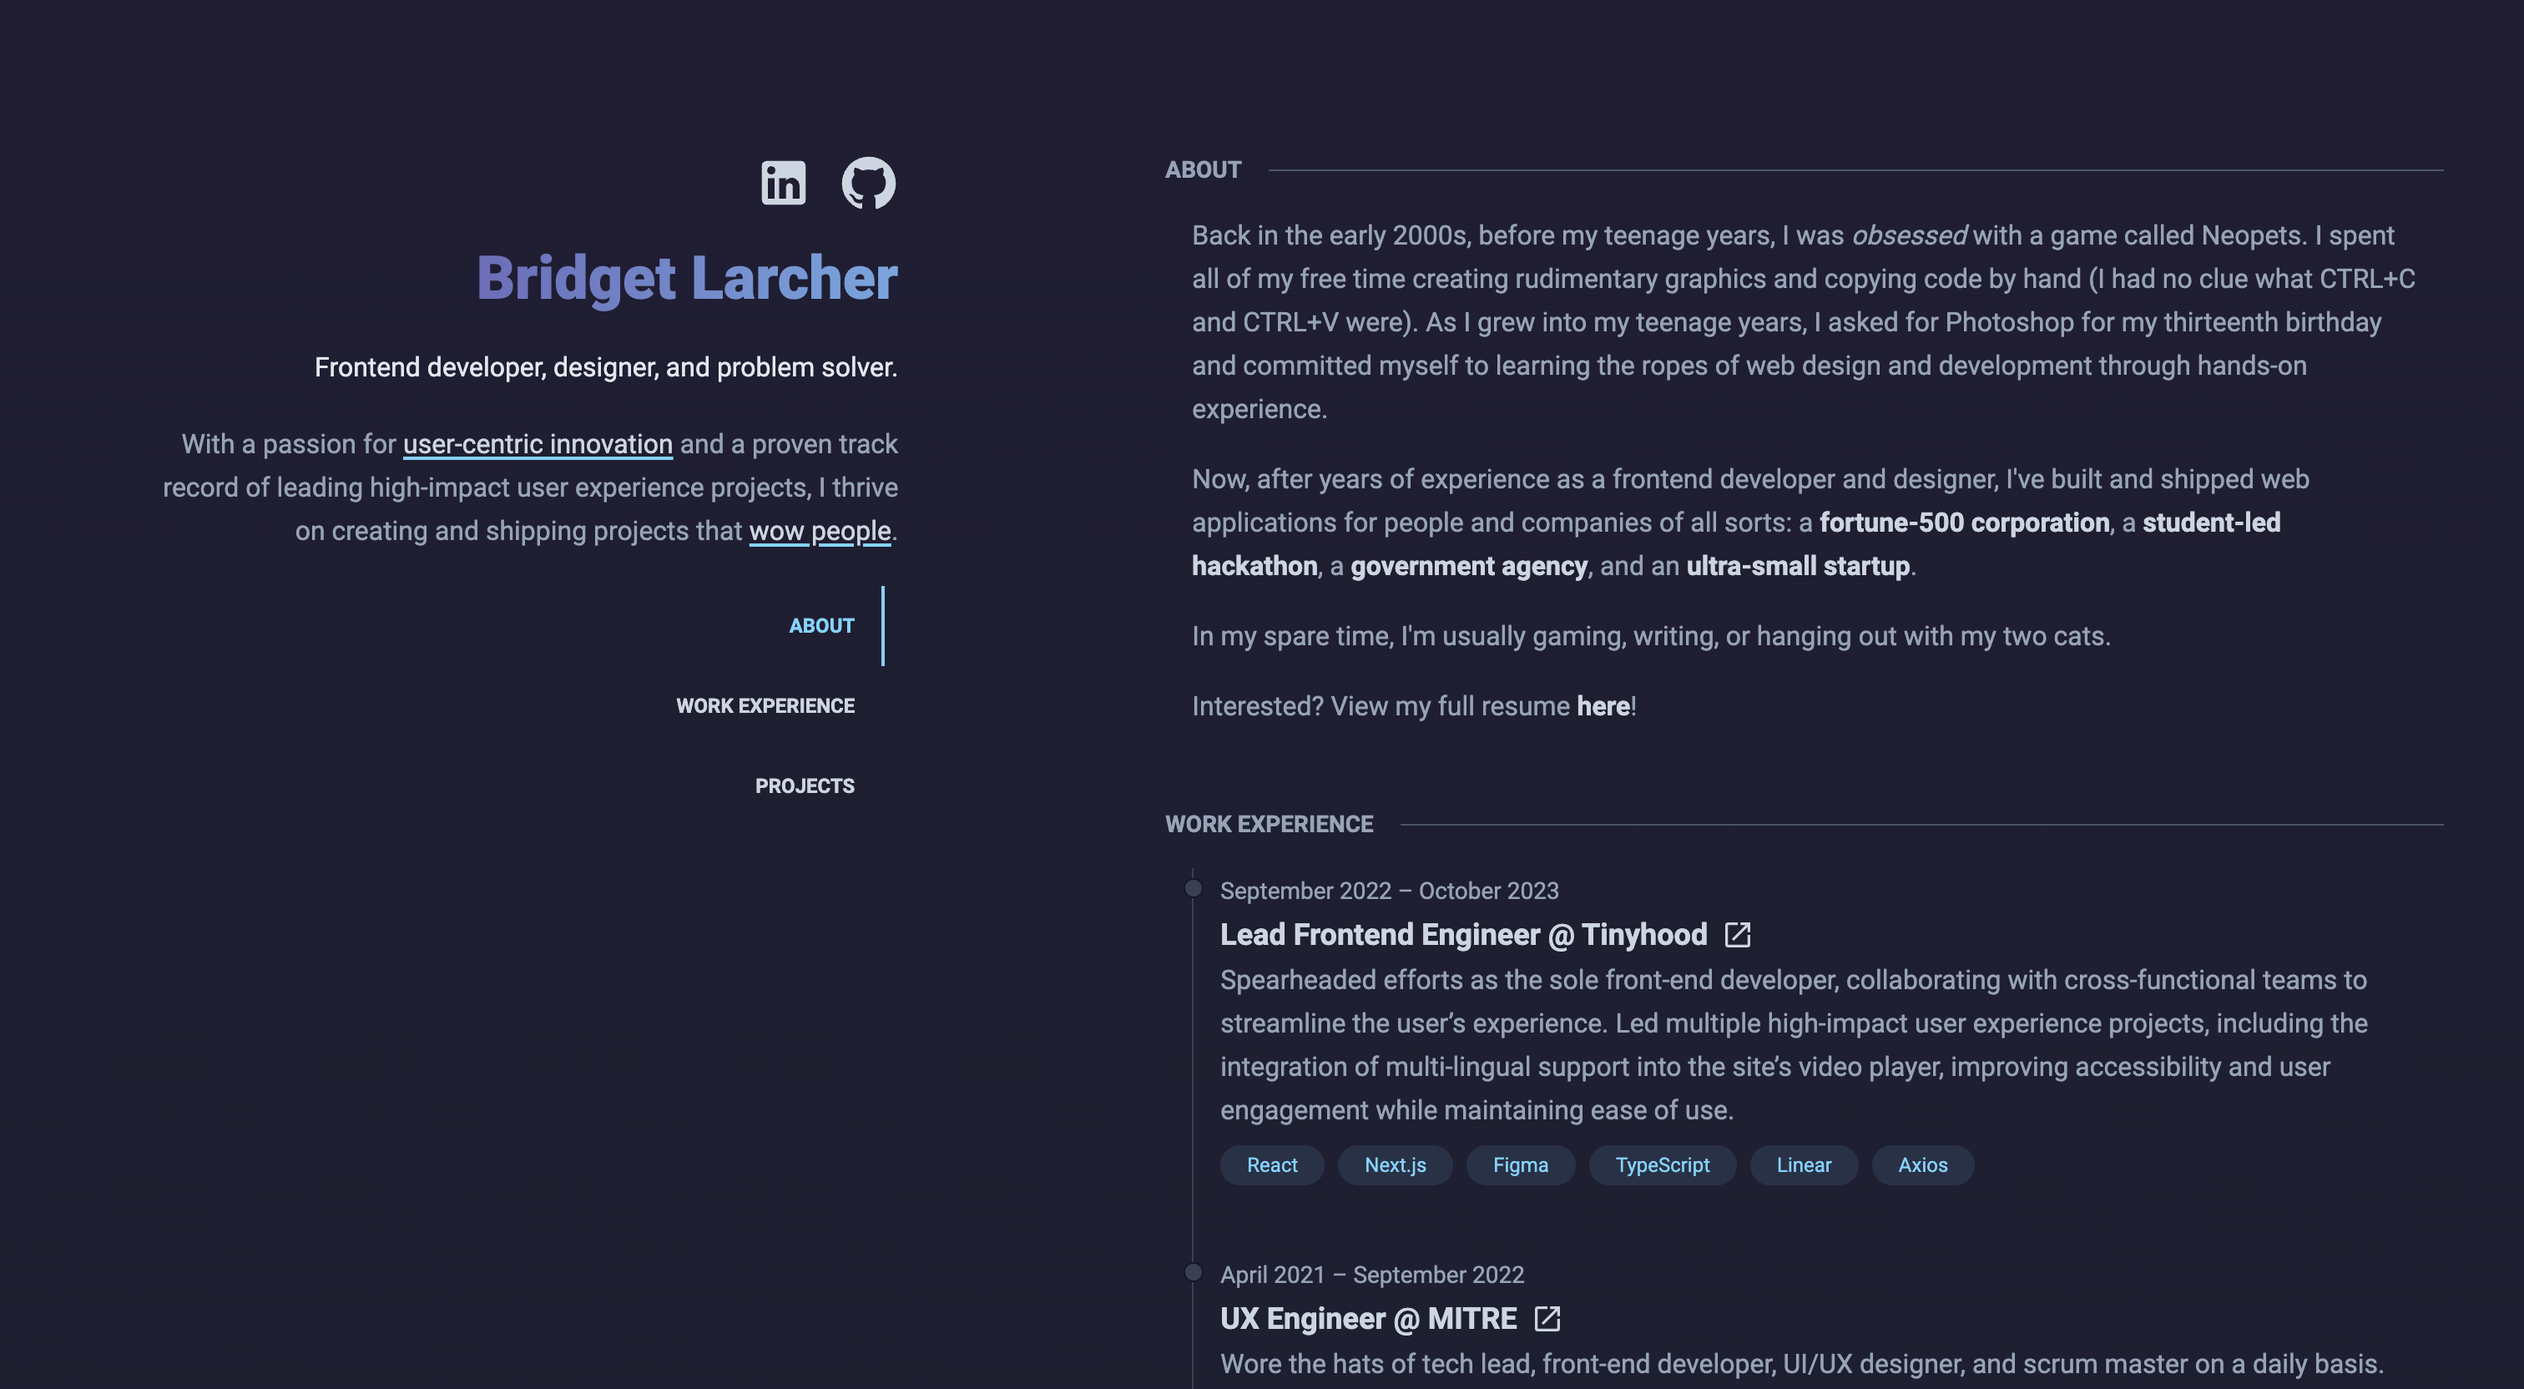
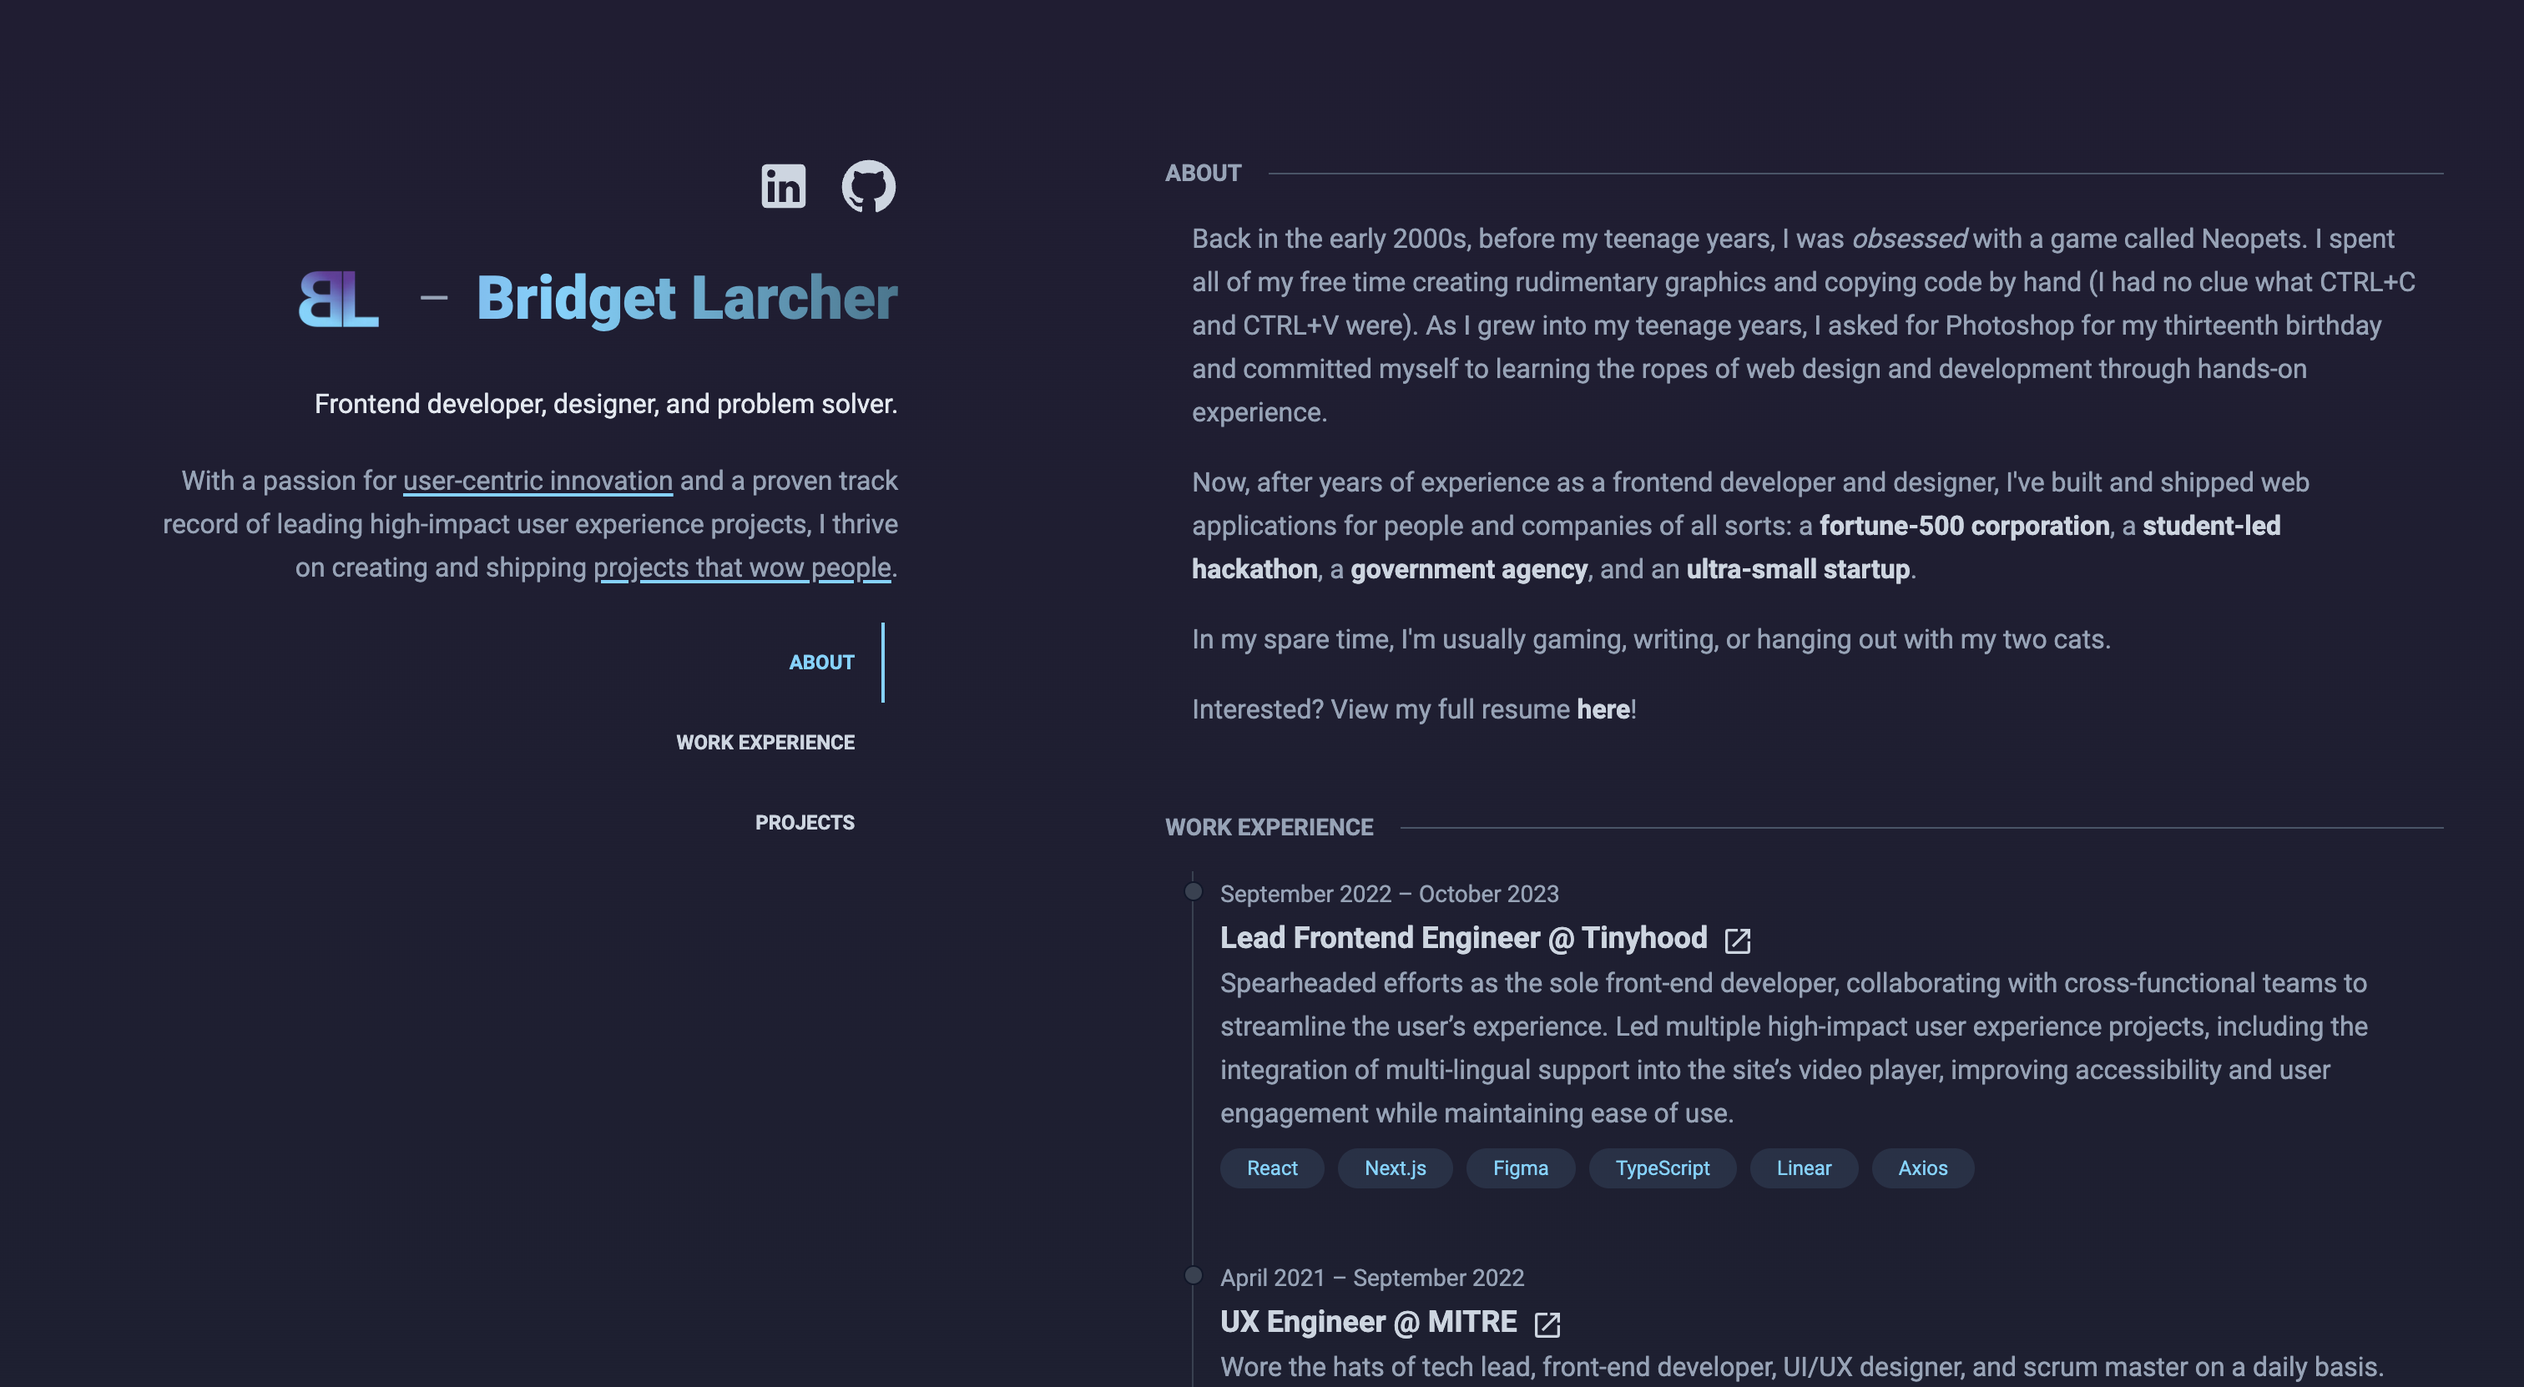
Cleanup - styling, adding analytics
Styling cleanup

Limit aside width for larger screens

Responsive cleanup

Styling updates, adding more to project

Expanding projects section flex wrapping

Padding changes

diff --git a/app/page.tsx b/app/page.tsx
@@ -1,4 +1,5 @@
 'use client'
+
 import { useEffect, useState } from 'react'
 import Image from 'next/image'
 
@@ -6,13 +7,16 @@ import { GitHub, LinkedIn } from '@mui/icons-material'
 
 import { SectionTitle } from '@/components/SectionTitle'
 import { TimelineListItem } from '@/components/TimelineListItem'
-import { ProjectItem } from '@/components/ProjectItem'
+import { ProjectListItem } from '@/components/ProjectListItem'
 
 import { projects } from './projects'
 import { workExperience } from './timeline'
 
 export default function Home() {
-  const [activeSection, setActiveSection] = useState<string>('section-about')
+  const [activeSection, setActiveSection] = useState<string>('')
+  const activeNavStyle = 'border-accent text-accent '
+  const inactiveNavStyle =
+    'border-transparent transition delay-150 duration-300 ease-in-out hover:text-accent '
 
   useEffect(() => {
     const handleScroll = () => {
@@ -33,10 +37,9 @@ export default function Home() {
   }, [])
 
   return (
-    <div className="relative flex flex-col gap-4 scroll-smooth px-12 lg:flex-row lg:p-0">
-      {/* Left sidebar */}
-      <aside className="flex lg:sticky lg:left-0 lg:top-0 lg:h-screen lg:w-[43vw] lg:text-right">
-        <div className="lg:text-md flex w-full flex-col gap-5 pt-24 lg:px-24">
+    <div className="relative flex flex-col gap-4 scroll-smooth px-6 lg:flex-row lg:p-0">
+      <aside className="flex pt-12 lg:sticky lg:left-0 lg:top-0 lg:h-screen lg:justify-end lg:p-12 lg:text-right xl:flex-shrink xl:p-24">
+        <div className="flex flex-col gap-5 lg:w-[37vw] lg:items-end xl:w-[450px]">
           <div className="flex gap-4 lg:justify-end">
             <a href="https://www.linkedin.com/in/bridgetlarcher/">
               <LinkedIn fontSize="large" className="social-media-button" />
@@ -45,7 +48,7 @@ export default function Home() {
               <GitHub fontSize="large" className="social-media-button" />
             </a>
           </div>
-          <span className="flex items-center justify-end gap-4">
+          <span className="flex items-center gap-4 lg:justify-end">
             <Image
               src="/favicon.png"
               alt="Logo. A backwards 'B' and an 'L' side by side."
@@ -53,23 +56,21 @@ export default function Home() {
               height={60}
             />
             <span className="text-2xl">—</span>
-            <h1 className="gradient-text lg:text-4xl">Bridget Larcher</h1>
+            <h1 className="gradient-text text-center lg:text-4xl">Bridget Larcher</h1>
           </span>
-          <span className="text-slate-200">Frontend developer, designer, and problem solver.</span>
+          <span>Frontend developer, designer, and problem solver.</span>
           <span>
             With a passion for <span className="power-underline">user-centric innovation</span> and
             a proven track record of leading high-impact user experience projects, I thrive on
-            creating and shipping projects that <span className="power-underline">wow people</span>.
+            creating and shipping <span className="power-underline">projects that wow people</span>.
           </span>
-          <nav className="hidden text-center text-xs font-medium uppercase text-gray-400 md:block">
-            <ul className="-mb-px flex flex-col flex-wrap items-end">
+          <nav className="hidden text-center text-xs uppercase lg:flex">
+            <ul className="flex flex-col items-end">
               <li className="mr-2">
                 <a
                   href="#section-about"
                   className={`${
-                    activeSection === 'section-about'
-                      ? `border-accent text-accent`
-                      : `border-transparent transition delay-150 duration-300 ease-in-out hover:border-gray-300 hover:text-gray-300`
+                    activeSection === 'section-about' ? activeNavStyle : inactiveNavStyle
                   } inline-block border-r-2 p-4`}
                 >
                   About
@@ -79,9 +80,7 @@ export default function Home() {
                 <a
                   href="#section-work"
                   className={`${
-                    activeSection === 'section-work'
-                      ? `border-accent text-accent`
-                      : `border-transparent transition delay-150 duration-300 ease-in-out hover:border-gray-300 hover:text-gray-300`
+                    activeSection === 'section-work' ? activeNavStyle : inactiveNavStyle
                   } inline-block border-r-2 p-4`}
                 >
                   Work Experience
@@ -91,9 +90,7 @@ export default function Home() {
                 <a
                   href="#section-projects"
                   className={`${
-                    activeSection === 'section-projects'
-                      ? `border-accent text-accent`
-                      : `border-transparent transition delay-150 duration-300 ease-in-out hover:border-gray-300 hover:text-gray-300`
+                    activeSection === 'section-projects' ? activeNavStyle : inactiveNavStyle
                   } inline-block border-r-2 p-4`}
                 >
                   Projects
@@ -103,8 +100,7 @@ export default function Home() {
           </nav>
         </div>
       </aside>
-      {/* Right sidebar */}
-      <main className="flex flex-col gap-8 pt-8 lg:mt-12 lg:max-w-[57vw] lg:px-12">
+      <main className="flex flex-col gap-8 pb-12 pt-8 lg:w-[50vw] xl:flex-grow xl:px-36 xl:pt-24">
         <section id="section-about">
           <SectionTitle title="About" />
           <div className="flex flex-col gap-4 px-4">
@@ -118,7 +114,7 @@ export default function Home() {
             </span>
             <span>
               Now, after years of experience as a frontend developer and designer, I've built and
-              shipped web applications for people and companies of all sorts: a{' '}
+              shipped web applications for people and companies of all sorts, like a{' '}
               <a href="https://www.capitalone.com/" target="_blank">
                 fortune-500 corporation
               </a>
@@ -163,13 +159,13 @@ export default function Home() {
         </section>
         <section id="section-projects">
           <SectionTitle title="Projects" />
-          <div className="flex flex-col items-center gap-4 px-4">
+          <div className="flex flex-col items-center gap-4 px-4 xl:flex-row xl:flex-wrap xl:items-start xl:justify-center">
             {projects.map((project) => (
-              <ProjectItem key={project.title} item={project} />
+              <ProjectListItem key={project.title} item={project} />
             ))}
           </div>
         </section>
-        <footer className="mb-12 mt-4">
+        <footer className="mt-8">
           Designed in Figma. Developed in Next.js and TailwindCSS. Deployed with Vercel.
         </footer>
       </main>

diff --git a/app/projects.tsx b/app/projects.tsx
@@ -10,7 +10,7 @@ export const projects: ProjectItem[] = [
   {
     title: 'Stats of Our Own',
     description:
-      "A weekend project derived from frustration surrounding a writing site's frustrating stats page. With this app, writers can visualize hits, kudos, and bookmarks in an interactive chart.",
+      "A weekend project derived from frustration surrounding a writing site's frustrating stats page. With this app, writers can visualize hits, kudos, and bookmarks in an interactive graph and a sortable chart. Any user on the website 'An Archive of Our Own' can be looked up!",
     img: '/stats-of-our-own.png',
     link: 'https://stats-of-our-own.vercel.app/',
     pills: [
@@ -35,7 +35,7 @@ export const projects: ProjectItem[] = [
   {
     title: 'Budget Tracker',
     description:
-      "I gathered with a group of coworkers at Capital One to participate in an 'Innovation Day'— a workday-long hackathon to create a meaningful solution to a need that customers have.\n\nOur team decided to focus on the need for customers to budget their spending habits without having to leave the app. Using the data from their previous transactions, while giving them the option to set budgets based on this data, would be a useful tool for customers across the board.",
+      "I gathered with a group of coworkers at Capital One to participate in an 'Innovation Day'— a workday-long hackathon to create a meaningful solution to a need that customers have. Our team decided to focus on the need for customers to budget their spending habits without needing to leave the app.",
     img: '/budget-tracker.png',
     link: 'https://projects.invisionapp.com/share/DJ104OCMSW2A#/screens/444153411_ASU',
     pills: ['Figma', 'Mural', 'InVision'],

diff --git a/components/ProjectListItem.tsx b/components/ProjectListItem.tsx
@@ -1,0 +1,41 @@
+import Image from 'next/image'
+import OpenInNewIcon from '@mui/icons-material/OpenInNew'
+import { ProjectItem } from '@/app/projects'
+import { Pill } from './Pill'
+
+type Props = {
+  item: ProjectItem
+}
+
+export function ProjectListItem({ item }: Props) {
+  return (
+    <div className="flex flex-col gap-4 px-2 py-4 md:flex-row xl:w-[675px] xl:gap-6">
+      <div className="relative h-[125px] md:w-[125px] xl:w-[175px] xl:justify-center">
+        <Image
+          src={item.img}
+          alt={`Preview for ${item.title}`}
+          fill
+          className="rounded-md object-cover"
+        />
+      </div>
+      <div className="flex flex-col flex-wrap gap-2 px-2 md:w-[300px] md:px-0 xl:w-[300px] xl:flex-grow">
+        {item.link ? (
+          <div>
+            <a href={item.link} target="_blank">
+              <h3 className="mr-2 inline text-lg">{item.title}</h3>
+              <OpenInNewIcon fontSize="inherit" className="text-sm" />
+            </a>
+          </div>
+        ) : (
+          <h3 className="text-lg font-semibold text-slate-200">{item.title}</h3>
+        )}
+        <span>{item.description}</span>
+        <div className="mt-2 flex flex-row flex-wrap gap-2">
+          {item.pills.map((pill) => (
+            <Pill key={pill} text={pill} />
+          ))}
+        </div>
+      </div>
+    </div>
+  )
+}

diff --git a/components/TimelineListItem.tsx b/components/TimelineListItem.tsx
@@ -13,11 +13,11 @@ export function TimelineListItem({ item }: Props) {
       <time className="mb-1 text-sm font-normal leading-none">{item.dates}</time>
       {item.link ? (
         <div>
-          <a href={item.link} target="_blank" className="inline-flex flex-row items-center gap-2">
-            <h3 className="text-lg">
+          <a href={item.link} target="_blank">
+            <h3 className="mr-2 inline text-lg">
               {item.title} @ {item.employer}
             </h3>
-            <OpenInNewIcon fontSize="small" />
+            <OpenInNewIcon fontSize="inherit" className="text-sm" />
           </a>
         </div>
       ) : (

diff --git a/app/layout.tsx b/app/layout.tsx
@@ -1,6 +1,7 @@
 import './globals.css'
 import type { Metadata } from 'next'
 import { Roboto } from 'next/font/google'
+import { Analytics } from '@vercel/analytics/react'
 
 const roboto = Roboto({
   subsets: ['latin'],
@@ -40,6 +41,7 @@ export default function RootLayout({ children }: { children: React.ReactNode }) 
   return (
     <html lang="en">
       <body className={`${roboto.className} leading-relaxed text-slate-400`}>{children}</body>
+      <Analytics />
     </html>
   )
 }

diff --git a/app/globals.css b/app/globals.css
@@ -21,11 +21,11 @@ body {
 }
 
 a {
-  @apply font-bold text-slate-300 transition ease-in-out hover:text-white;
+  @apply font-bold text-slate-300 transition duration-300 ease-in-out hover:text-white;
 }
 
 .power-underline {
-  @apply text-slate-300 underline decoration-accent decoration-2 underline-offset-2;
+  @apply underline decoration-accent decoration-2 underline-offset-2;
 }
 
 .social-media-button {

diff --git a/components/SectionTitle.tsx b/components/SectionTitle.tsx
@@ -4,7 +4,7 @@ type Props = {
 
 export function SectionTitle({ title }: Props) {
   return (
-    <div className="relative flex items-center py-4">
+    <div className="relative flex items-center py-4 xl:mr-4">
       <h2 className="section-title mr-4 flex-shrink text-sm font-bold uppercase">{title}</h2>
       <div className="flex-grow border-t border-slate-600"></div>
     </div>

diff --git a/README.md b/README.md
@@ -1,1 +1,10 @@
-Portfolio WIP using Next.js, TailwindCSS, and Vercel (to come).
+<div align="center">
+  <img alt="Logo" src="https://github.com/bridgetlarcher/portfolio/blob/main/public/favicon.png?raw=true" width="100" />
+</div>
+<h1 align="center">
+  bridgetlarcher.com
+</h1>
+
+Designed in Figma. Developed in Next.js and TailwindCSS. Deployed with Vercel.
+
+![demo](https://github.com/bridgetlarcher/portfolio/blob/main/public/og.png?raw=true)
